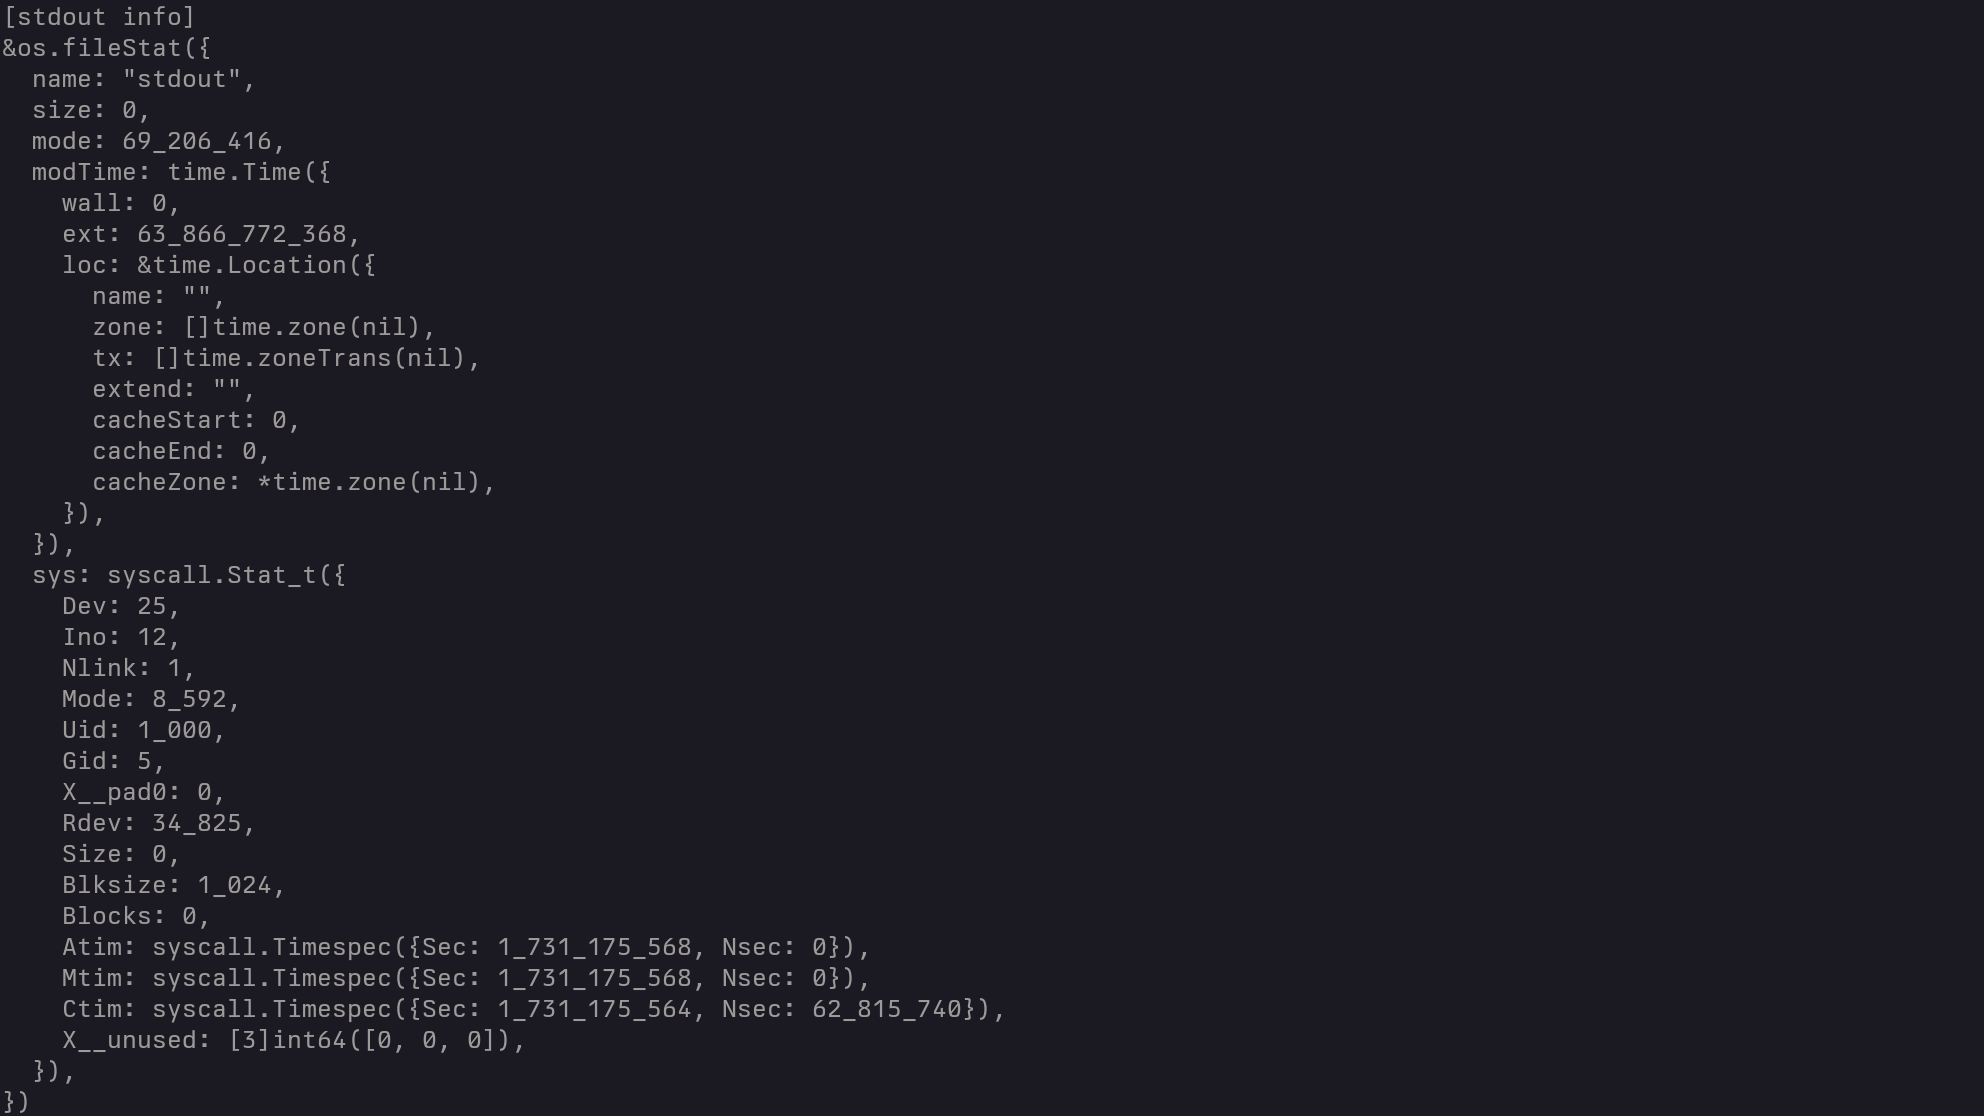
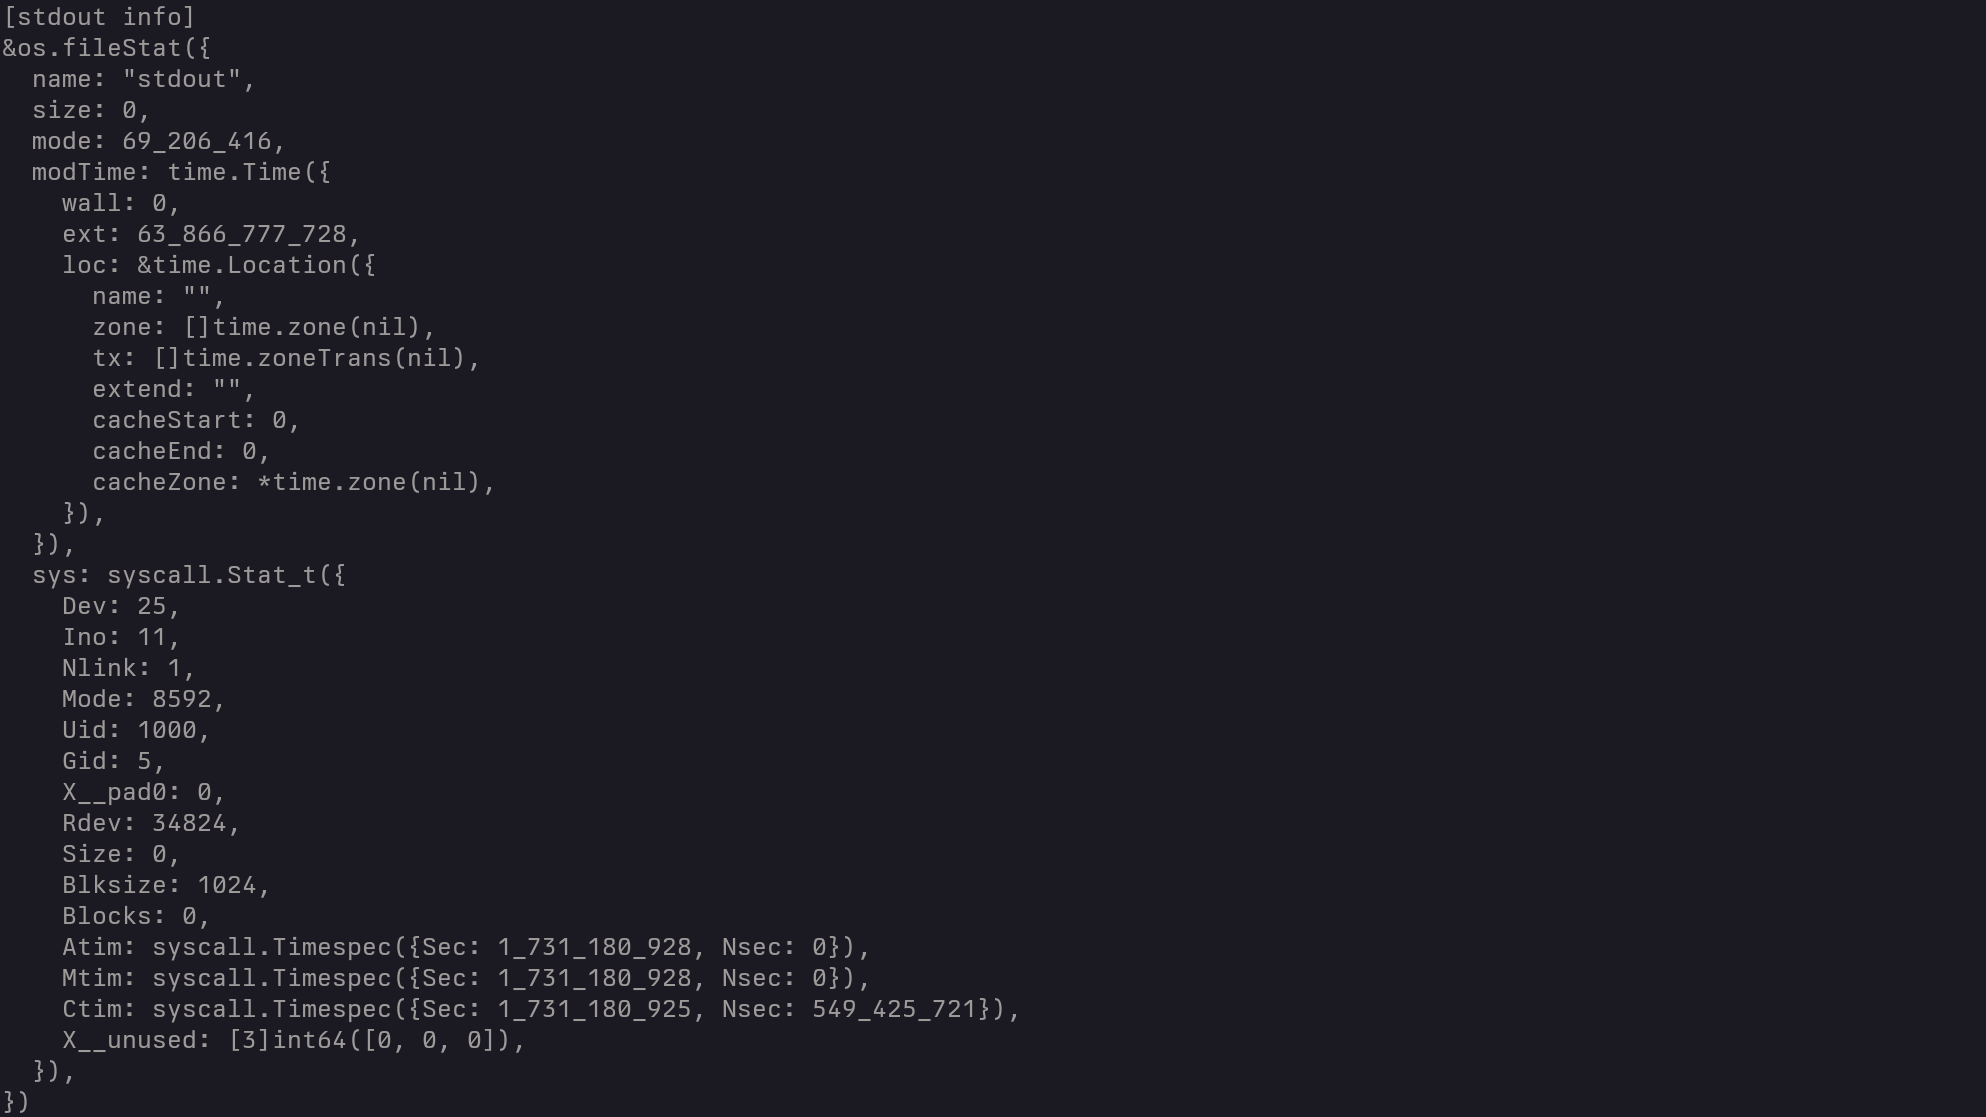
do not use thousands grouping for small numbers

diff --git a/printer.go b/printer.go
@@ -31,22 +31,24 @@ const (
 )
 
 var (
-	DefaultOutput             io.Writer = os.Stdout
-	DefaultFormatValueFunc              = FormatValue
-	DefaultMaxInlineColumn              = 80
-	DefaultIndent                       = "  "
-	DefaultThousandsSeparator           = '_'
+	DefaultOutput                     io.Writer = os.Stdout
+	DefaultFormatValueFunc                      = FormatValue
+	DefaultMaxInlineColumn                      = 80
+	DefaultIndent                               = "  "
+	DefaultThousandsGroupingMinDigits           = 6
+	DefaultThousandsSeparator                   = '_'
 )
 
 type Printer struct {
-	defaultOutput      io.Writer
-	formatValue        FormatValueFunc
-	maxInlineColumn    int
-	indent             string
-	linePrefix         string
-	printTypes         PrintTypes
-	hidePrivateFields  bool
-	thousandsSeparator rune
+	defaultOutput              io.Writer
+	formatValue                FormatValueFunc
+	maxInlineColumn            int
+	indent                     string
+	linePrefix                 string
+	printTypes                 PrintTypes
+	hidePrivateFields          bool
+	thousandsGroupingMinDigits int
+	thousandsSeparator         rune
 
 	buf    []byte
 	level  int
@@ -104,6 +106,12 @@ func (p *Printer) SetHidePrivateFields(hide bool) {
 	p.mu.Unlock()
 }
 
+func (p *Printer) SetThousandsGroupingMinDigits(n int) {
+	p.mu.Lock()
+	p.thousandsGroupingMinDigits = n
+	p.mu.Unlock()
+}
+
 func (p *Printer) SetThousandsSeparator(sep rune) {
 	p.mu.Lock()
 	p.thousandsSeparator = sep
@@ -137,14 +145,15 @@ func (p *Printer) PrintTo(w io.Writer, value any, label ...any) error {
 
 func (p *Printer) clone() *Printer {
 	p2 := Printer{
-		defaultOutput:      p.defaultOutput,
-		formatValue:        p.formatValue,
-		maxInlineColumn:    p.maxInlineColumn,
-		indent:             p.indent,
-		linePrefix:         p.linePrefix,
-		printTypes:         p.printTypes,
-		hidePrivateFields:  p.hidePrivateFields,
-		thousandsSeparator: p.thousandsSeparator,
+		defaultOutput:              p.defaultOutput,
+		formatValue:                p.formatValue,
+		maxInlineColumn:            p.maxInlineColumn,
+		indent:                     p.indent,
+		linePrefix:                 p.linePrefix,
+		printTypes:                 p.printTypes,
+		hidePrivateFields:          p.hidePrivateFields,
+		thousandsGroupingMinDigits: p.thousandsGroupingMinDigits,
+		thousandsSeparator:         p.thousandsSeparator,
 
 		level:  p.level,
 		inline: p.inline,
@@ -174,6 +183,10 @@ func (p *Printer) reset(value any) {
 
 	if p.printTypes == "" {
 		p.printTypes = PrintTypesDefault
+	}
+
+	if p.thousandsGroupingMinDigits == 0 {
+		p.thousandsGroupingMinDigits = DefaultThousandsGroupingMinDigits
 	}
 
 	if p.thousandsSeparator == 0 {
@@ -452,7 +465,7 @@ func (p *Printer) printIntegerValue(v reflect.Value) {
 	i := v.Int()
 	s := strconv.FormatInt(i, 10)
 
-	if p.thousandsSeparator == 0 {
+	if p.thousandsSeparator == 0 || len(s) < p.thousandsGroupingMinDigits {
 		p.printString(s)
 	} else {
 		p.printString(p.addThousandsSeparator(s))
@@ -463,7 +476,7 @@ func (p *Printer) printUnsignedIntegerValue(v reflect.Value) {
 	u := v.Uint()
 	s := strconv.FormatUint(u, 10)
 
-	if p.thousandsSeparator == 0 {
+	if p.thousandsSeparator == 0 || len(s) < p.thousandsGroupingMinDigits {
 		p.printString(s)
 	} else {
 		p.printString(p.addThousandsSeparator(s))
@@ -476,7 +489,7 @@ func (p *Printer) printFloatValue(v reflect.Value, bitSize int) {
 
 	is, fs, found := strings.Cut(s, ".")
 	if found {
-		if p.thousandsSeparator == 0 {
+		if p.thousandsSeparator == 0 || len(s) < p.thousandsGroupingMinDigits {
 			p.printString(is)
 		} else {
 			p.printString(p.addThousandsSeparator(is))

diff --git a/README.md b/README.md
@@ -55,6 +55,8 @@ following options are available:
   - `pp.PrintTypesNever`: never print any type.
 - `(*Printer).SetHidePrivateFields`: hide private (non-exported) fields when
   printing structures.
+- `(*Printer).SetThousandsGroupingMinDigits`: the minimum number of digits for a
+  number to be printed with thousand separators (default: 6).
 - `(*Printer).SetThousandsSeparator`: set the character (rune) used between
   groups of three digits when printing numbers (default: `'_'`).
 
